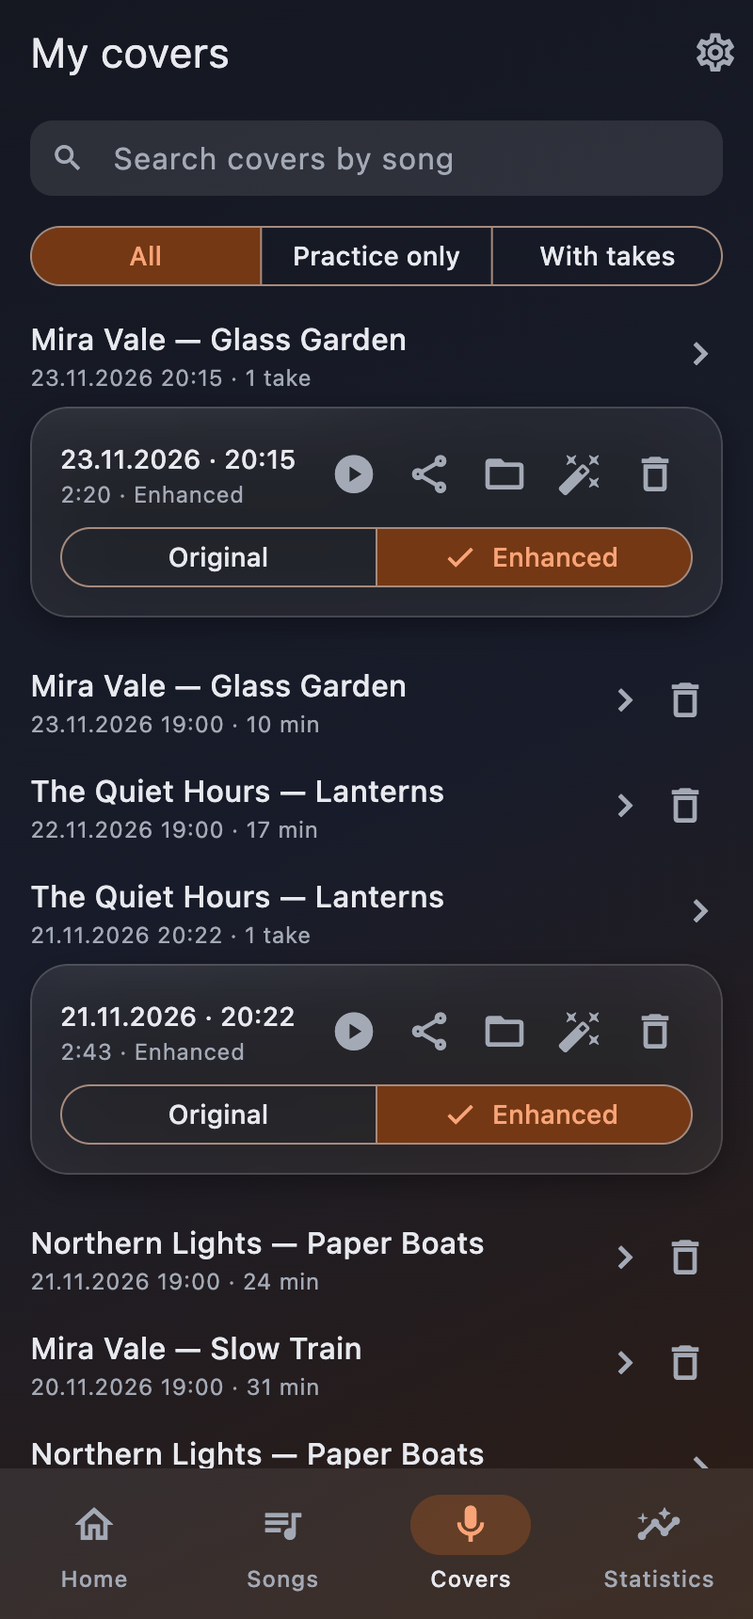
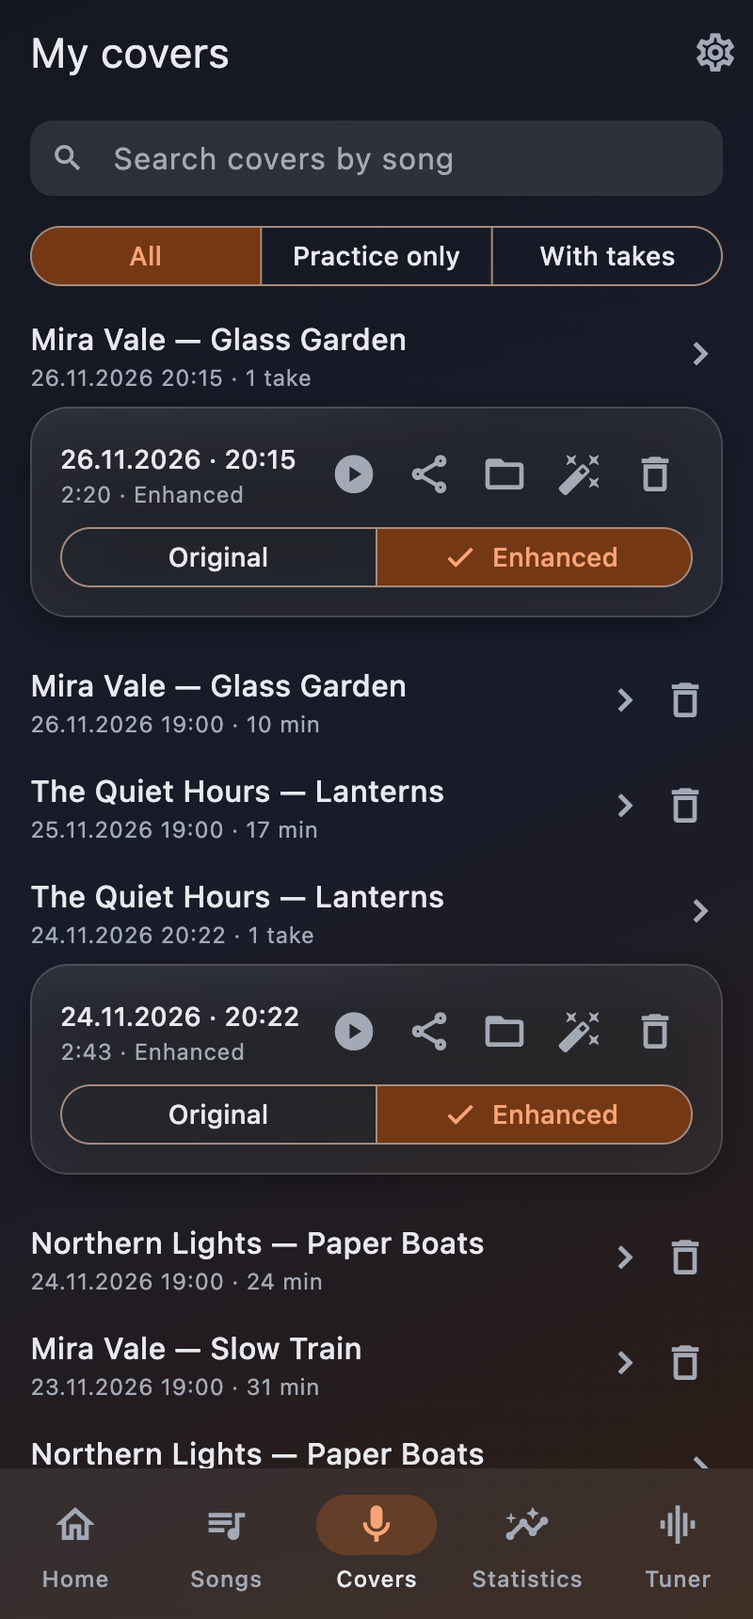
[DOCS-072] README: new screenshots from the demo songs (the tuner tab, chords coloured in the lines, the Practice checkbox, the themes with the new accents), a Tuner section, chords and tablatures, Practice without counting, fifteen accents and smooth changes, the narrow layout check; README.isv.md 

diff --git a/README.isv.md b/README.isv.md
@@ -2,79 +2,106 @@
 
 [English](README.md) · **Меджусловјанскы**
 
-Hitwave Cover држи тексты ваших пєснеј и ваше каверы на једном мєсту. Отворите пєсњу, пустите текст течи в вашем темпу, појте и запишите запис — апликација очисти звук на устројству, држи всакы запис при јего пєсњи и рахује, колико вы тренујете.
+Hitwave Cover држи тексты ваших пєснеј и ваше каверы на једном мєсту. Отворите пєсњу, пустите текст течи в вашем темпу, појте и запишите запис — апликација очисти звук на устројству, држи всакы запис при јего пєсњи и рахује, колико вы тренујете. Тјунер јест внутри.
 
 Написано на Flutter за Android, iOS, macOS, Windows, Linux и веб.
 
 ## Снимкы екрана
 
-| Домов | Текст | Мојі каверы | Статистика |
-|---|---|---|---|
-| ![Домов](docs/screenshots/phone_home.png) | ![Текст](docs/screenshots/phone_lyrics.png) | ![Мојі каверы](docs/screenshots/phone_covers.png) | ![Статистика](docs/screenshots/phone_stats.png) |
+| Дом | Текст | Моје каверы | Статистика | Тјунер |
+|---|---|---|---|---|
+| ![Дом](docs/screenshots/phone_home.png) | ![Текст](docs/screenshots/phone_lyrics.png) | ![Моје каверы](docs/screenshots/phone_covers.png) | ![Статистика](docs/screenshots/phone_stats.png) | ![Тјунер](docs/screenshots/phone_tuner.png) |
 
-![Домов на ширшем екранє](docs/screenshots/wide_home.png)
+![Дом на ширшем екранє](docs/screenshots/wide_home.png)
 
 ![Текст на ширшем екранє](docs/screenshots/wide_lyrics.png)
 
 ### Темы
 
-Четыри стиља — свєтло и тємно стекло, свєтли и тємни неуморфизм — и осем акцентних барв; избирајут се в Наставјењах:
+Четыри стиља — свєтло и темно стекло, свєтлы и темны неуморфизм — и петнадсет барв акцента; избирајут се в Наставјењах, нова тема, барва или језык прєходи гладко:
 
 ![Наставјења и четыри стиља темы](docs/screenshots/themes.png)
 
+Снимкы сут зроблене из демо-пєснеј тестом `integration_test/readme_screenshots_test.dart` (глејте Развој).
+
 ## Можности
 
-### Пєсни и тексты
-- Библиотека пєснеј с изполнитељем, назвоју, албумом и текстом: додавајте, урејајте и бришите је.
-- Искање по пєсњи или изполнитељу; разврстање по изполнитељах, А–Ж, недавно отвореных или по числу каверов.
-- Страница текста сама прокручује текст. Скорост и отступ пред првоју линијеју сут запомњене за всаку пєсњу.
+### Пєсње и тексты
+
+- Библиотека пєснеј с артистом, назвоју, албумом и текстом: додавајте, уредите и одстрањајте је.
+- Искање по пєсњи или артисту; разврстање по артистах, А–Ж, недавно отвореных или по числу каверов.
+- Страница текста сама прокручује текст. Быстрость и вступ прєд првоју линијеју сут запаметане за всаку пєсњу.
+- **Акорды** сут обарвене: линије акордов (`Am   F   C`), низы акордов прєд словами (`Intro: Em G`), акорды в заградах — такоже прилєплене к слову, како их пише ChordPro (`[Am]We folded every [F]promise`). Дотык акорда, кторы јест в истинє слово (`A girl to hold`), оставја јего текстом; јешче једен дотык јего чини акордом опет.
+- **Табулатуры** држет своје колоны в шрифтє с једнакоју ширином и малєјут, да бы се вмєстили на екран.
 
 ### Запис каверов
+
 - Означите **Запис** и притисните **Старт**: запис иде, доколє текст се прокручује.
 - Изберите микрофон; апликација упозори на запис без звука.
-- **Улєпшење гласа** иде на устројству в вбудованом Python: одстрањаје гул и постојанны шум, выравњаје гласност и, ако хочете, обрєзаје тишину пред и по пєњу. Оригинал и улєпшены запис оба остајут.
-- Слушајте записы, пошљите запис како MP3 (с готовым описом) или покажите его в папке.
+- **Улєпшење гласа** иде на устројству в чистом Dart ([revoockv_audio_enhance](https://pub.dev/packages/revoockv_audio_enhance)): одстрањаје гул и постојанны шум, выравњаје гласност и, ако хочете, одрєзаје тишину прєд и по пєнју. Оригинал и улєпшены запис оба оставајут.
+- Слушајте записы, пошлите запис како MP3 (с готовым описом) или покажите јего в папке.
 - **Моје каверы**: все записы всих пєснеј в једном спису, с искањем.
 
+### Тјунер
+
+- Гитара, укулеле, бас и скрипка в обычном строју, или всака нота (хроматичны).
+- Игла слєди струну в реалном врємени (около 47 мєрењ в секунду) на скалє ±50 центов, с најближшоју струноју и что дєлати (натегни, опусти, настројено); высота се мєри до части цента.
+- Своја картка и кнопка на страници текста; тјунер освобађаје микрофон, когда он или апликација се скрыје.
+
 ### Тренинг
-- Врєме с каждоју пєсњеју се рахује само.
-- Статистика: днес, тутој тыдењ и тутој мєсец, серија дниј, число записов, календар мєсеца с дњами тренинга и најчестєјше пєсни.
-- Домашња картка показује недавно отворене пєсни и недавно слушане каверы.
+
+- Врєме с каждоју пєсњеју се рахује само; не означите **Тренинг** на страници текста, да бы само прокручивати текст (или само записати запис) без рахуња.
+- Статистика: днес, тутој тыдењ и тутој мєсец, серија дњев, число записов, календар мєсеца с дњами тренинга и најчестєје пєсње.
+- Домашња картка показује недавно отворене пєсње и недавно слушане каверы.
 
 ### Синхронизација и резервне копије
+
 - Все остаје на устројству; конто не јест потрєбно.
-- **Синхронизација меджу устројствами** в локалној сети Wi‑Fi: једно устројство показује QR-код, друго его сканује. Пєсни, каверы, тренингы и историја се сједињајут; ничто не јест избрисано без пытања — апликација показује различија и даје избрати, что дєлати на обох устројствах.
-- **Резервна копија**: експортујте пєсни в фајл и импортујте је назад; с записами фајл јест ZIP-архив.
-- **Наставјења → Дане** такоже очишчајут пєсни, каверы, статистику тренингов или историју.
+- **Синхронизација међу устројствами** в локалној сети Wi‑Fi: једно устројство показује QR-код, друго јего сканује. Пєсње, каверы, тренингы и хисторија се сједињајут; ничто не јест одстрањено без пытања — апликација показује разлики и даје избрати, что дєлати на обох устројствах.
+- **Резервна копија**: експортујте пєсње в фајл и импортујте је назад; с записами фајл јест ZIP-архив.
+- **Наставјења → Дане** такоже очишчајут пєсње, каверы, статистику тренингов или хисторију.
 
 ### Наставјења
+
 - **Језык**: англијскы (по умолчању) или меджусловјанскы (писаны кирилицоју).
 - **Тема**: свєтло или темно стекло, свєтлы или темны неуморфизм.
-- **Акцентна барва**: једна из осмих.
+- **Барва акцента**: једна из петнадсет.
 
-## Како почати
+## Како почети
 
 Трєбује се: Flutter (Dart `^3.12`); Xcode за iOS и macOS, Android Studio за Android.
 
 ```bash
 flutter pub get
-flutter run                          # Android, iOS, macOS: the build packages Python itself
-tool/flutter_python.sh windows run   # Windows and Linux: package Python, then run
+flutter run
 ```
 
-Улєпшење гласа потрєбује вбудованы Python из `python/` (глејте [python/README.md](python/README.md)). Вебова верзија не имаје вбудованого Python и синхронизације меджу устројствами: там апликација држи пєсни и тексты без улєпшења гласа.
+Вебова верзија не имаје фајловој системы и синхронизације међу устројствами: там апликација држи пєсње и тексты без записа и улєпшења гласа.
 
 ## Развој
 
-- **Архитектура**: чиста архитектура по шаблону `revoockv-original@2.0.0` скила [revoockv-flutter-clean-arch](https://github.com/revoockv/revoockv-flutter-clean-arch) (глејте `.clean_arch.toml`); јего линтер провєрјаје код в CI: всака функција в `lib/features/<feature>/` имаје слоје `data`, `domain` и `presentation`; стан живје в репозиторијах како `ValueNotifier` и доходи до интерфејса чрез усе цасе и `watch_it`; зависности сут регистроване с GetIt.
-- **Погрєшкы**: операције врачајут `Result<T, F>`, кде `F` јест енум погрєшек функције; јего текст се избираје в `presentation/l10n/`.
-- **Преводы**: [slang](https://pub.dev/packages/slang). Тексты сут в `lib/core/presentation/l10n/en.i18n.json` и `isv.i18n.json`; по измєнах пустите `dart run slang`.
+- **Архитектура**: чиста архитектура по шаблону `revoockv-original@2.0.0` скила [revoockv-flutter-clean-arch](https://github.com/revoockv/revoockv-flutter-clean-arch) (глејте `.clean_arch.toml`); јего линтер провєрјаје код в CI: всака функција в `lib/features/<feature>/` имаје слоје `data`, `domain` и `presentation`; стан живе в репозиторијах како `ValueNotifier` и доходи до интерфејса чрез use case-ы и `watch_it`; зависности сут регистроване с GetIt.
+- **Грєшкы**: операције врачајут `Result<T, F>`, кде `F` јест енум грєшек функције; јего текст се избираје в `presentation/l10n/`.
+- **Преводы**: [slang](https://pub.dev/packages/slang). Тексты сут в `lib/core/presentation/l10n/en.i18n.json` и `isv.i18n.json`; по измєнах пустите `dart run slang`. Меджусловјанскы тексты сут провєрене по словнику [interslavic-dictionary.com](https://interslavic-dictionary.com/).
 - **Темы**: `lib/core/presentation/theme.dart` гради тему из стиља, јаркости и акцента; `SurfaceWidget` рисује стекљане или неуморфне панели.
 - **Храњење**: Hive на устројству.
 
 ```bash
-flutter analyze
-flutter test --concurrency=1
+tool/check.sh   # analyze, тесты и линтер архитектуры — точно то, что иде в CI
 ```
 
-Git: `develop` сбира работу; всака измєна имаје своју вєтв — `feature/NNN-name`, `fix/NNN-name`, `refactor/NNN-name`, `docs/NNN-name` — с комитами `[TYPE-NNN] …`, слита в `develop` с `--no-ff`.
+**Снимкы екрана**: пустите на macOS (демо-дане живут в своју папку и сут потом одстрањене), потом копирујте PNG из напечатаној папкы в `docs/screenshots/` (`themes.png` јест `phone_settings` и четыри `look_*` једно при другом, в половичној величини):
+
+```bash
+flutter test integration_test/readme_screenshots_test.dart -d macos \
+  --dart-define=HITWAVE_STORAGE_FOLDER=readme_screenshots
+```
+
+Демо-пєсње, тренингы и записы сут измышлене (`integration_test/demo_data.dart`). Те саме дане с долгыми тренингами провєрјајут размєшчење: все екраны на телефону 320 px на обох језыках; тест паде, ако нєкакы текст не вмєсти се:
+
+```bash
+flutter test integration_test/narrow_layout_test.dart -d macos \
+  --dart-define=HITWAVE_STORAGE_FOLDER=narrow_layout
+```
+
+Git: `develop` сбира работу; всака измєна имаје своју вєтву — `feature/NNN-name`, `fix/NNN-name`, `refactor/NNN-name`, `docs/NNN-name` — с комитами `[TYPE-NNN] …`, слита в `develop` с `--no-ff`.

diff --git a/README.md b/README.md
@@ -4,15 +4,15 @@
 
 Hitwave Cover keeps your song lyrics and your cover recordings in one place. Open a song, let the
 lyrics scroll at your pace, sing along and record a take — the app cleans up the sound on the
-device, keeps every take next to its song and counts how much you practice.
+device, keeps every take next to its song and counts how much you practice. A tuner is built in.
 
 Built with Flutter for Android, iOS, macOS, Windows, Linux and the web.
 
 ## Screenshots
 
-| Home                                     | Lyrics                                       | My covers                                       | Statistics                                      |
-| ---------------------------------------- | -------------------------------------------- | ----------------------------------------------- | ----------------------------------------------- |
-| ![Home](docs/screenshots/phone_home.png) | ![Lyrics](docs/screenshots/phone_lyrics.png) | ![My covers](docs/screenshots/phone_covers.png) | ![Statistics](docs/screenshots/phone_stats.png) |
+| Home                                     | Lyrics                                       | My covers                                       | Statistics                                      | Tuner                                      |
+| ---------------------------------------- | -------------------------------------------- | ----------------------------------------------- | ----------------------------------------------- | ------------------------------------------ |
+| ![Home](docs/screenshots/phone_home.png) | ![Lyrics](docs/screenshots/phone_lyrics.png) | ![My covers](docs/screenshots/phone_covers.png) | ![Statistics](docs/screenshots/phone_stats.png) | ![Tuner](docs/screenshots/phone_tuner.png) |
 
 ![Home on a wide screen](docs/screenshots/wide_home.png)
 
@@ -20,7 +20,8 @@ Built with Flutter for Android, iOS, macOS, Windows, Linux and the web.
 
 ### Themes
 
-Four styles — light and dark glass, light and dark neumorphism — and eight accent colors, chosen in Settings:
+Four styles — light and dark glass, light and dark neumorphism — and fifteen accent colors, chosen in Settings;
+a new theme, accent or language flows in smoothly:
 
 ![Settings and the four theme styles](docs/screenshots/themes.png)
 
@@ -34,6 +35,10 @@ The screenshots are made from demo songs by `integration_test/readme_screenshots
 - Search by song or artist; sort by artists, A–Z, recently opened or by the number of covers.
 - The lyrics page scrolls the text by itself. The speed and the lead-in before the first line are
   remembered for every song.
+- **Chords** are coloured: chord lines (`Am   F   C`), runs of chords before words (`Intro: Em G`), chords in
+  brackets — also glued to a word as ChordPro writes them (`[Am]We folded every [F]promise`). A tap on a chord that
+  is really a word (`A girl to hold`) keeps it as text; a tap on it again makes it a chord.
+- **Tablatures** keep their columns in a fixed-width font and shrink to fit the screen.
 
 ### Recording covers
 
@@ -46,9 +51,17 @@ The screenshots are made from demo songs by `integration_test/readme_screenshots
 - Listen to the takes, share one as MP3 (with a ready caption) or show it in its folder.
 - **My covers**: every take of every song in one list, with search.
 
+### Tuner
+
+- Guitar, ukulele, bass and violin in standard tuning, or any note (chromatic).
+- The needle follows the string in real time (about 47 readings a second) on a scale of ±50 cents, with the nearest
+  string and what to do (tune up, tune down, in tune); the pitch is read to a fraction of a cent.
+- Its own tab and a button on the lyrics page; the microphone is freed when the tuner or the app is hidden.
+
 ### Practice
 
-- The time spent with each song is counted on its own.
+- The time spent with each song is counted on its own; untick **Practice** on the lyrics page to only scroll the
+  lyrics (or only record a take) without counting it.
 - Statistics: today, this week and this month, the day streak, the number of takes, a month
   calendar of practice days and the most practiced songs.
 - The home tab shows the recently opened songs and the recently played covers.
@@ -67,7 +80,7 @@ The screenshots are made from demo songs by `integration_test/readme_screenshots
 
 - **Language**: English (default) or Interslavic (Medžuslovjansky, written in Cyrillic).
 - **Theme**: light or dark glass, light or dark neumorphism.
-- **Accent color**: one of eight.
+- **Accent color**: one of fifteen.
 
 ## Getting started
 
@@ -125,6 +138,15 @@ then copy the PNGs from the printed folder to `docs/screenshots/` (`themes.png` 
 ```bash
 flutter test integration_test/readme_screenshots_test.dart -d macos \
   --dart-define=HITWAVE_STORAGE_FOLDER=readme_screenshots
+```
+
+The demo songs, practice and takes are made up (`integration_test/demo_data.dart`). The same data, with long
+practice, drives the layout check: every screen on a 320 px phone in both languages, failing on any text that
+overflows, and leaving the screenshots for a look at cut texts:
+
+```bash
+flutter test integration_test/narrow_layout_test.dart -d macos \
+  --dart-define=HITWAVE_STORAGE_FOLDER=narrow_layout
 ```
 
 Git: `develop` collects the work; every change has its own branch — `feature/NNN-name`,
